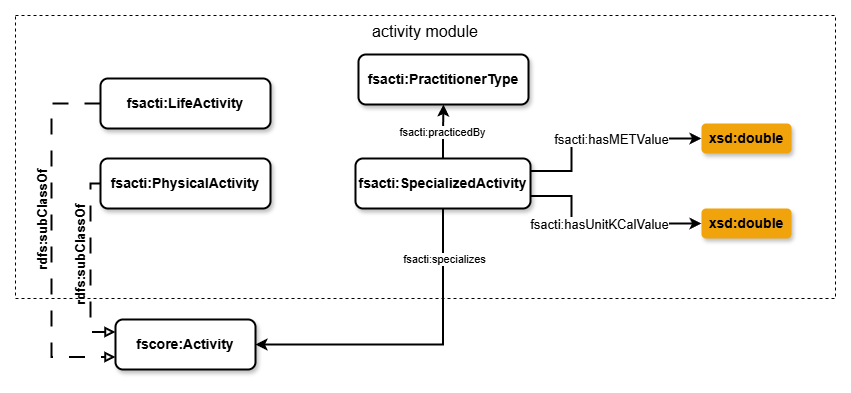
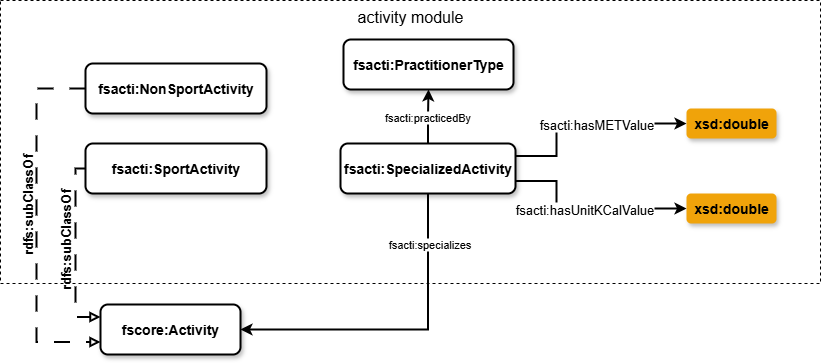
update activity module

diff --git a/diagrams/README.md b/diagrams/README.md
@@ -38,8 +38,8 @@ Nutritional properties are represented by:
 ### 3. Activity Module
 The **Activity** module imports the **Core** and the **Multimodal**  modules and classifies activities into:
 
-- **LifeActivity**: Activities related to daily living.
-- **PhysicalActivity**: Activities involving physical exertion.
+- **NonSportActivity**: Activities related to daily living.
+- **SportActivity**: Activities involving physical exertion.
 
 Each activity is connected to a **SpecializedActivity** based on the practitioner type (e.g., adult, older adult, wheelchair user) using the `practicedBy` property. Effort is represented by:
 
